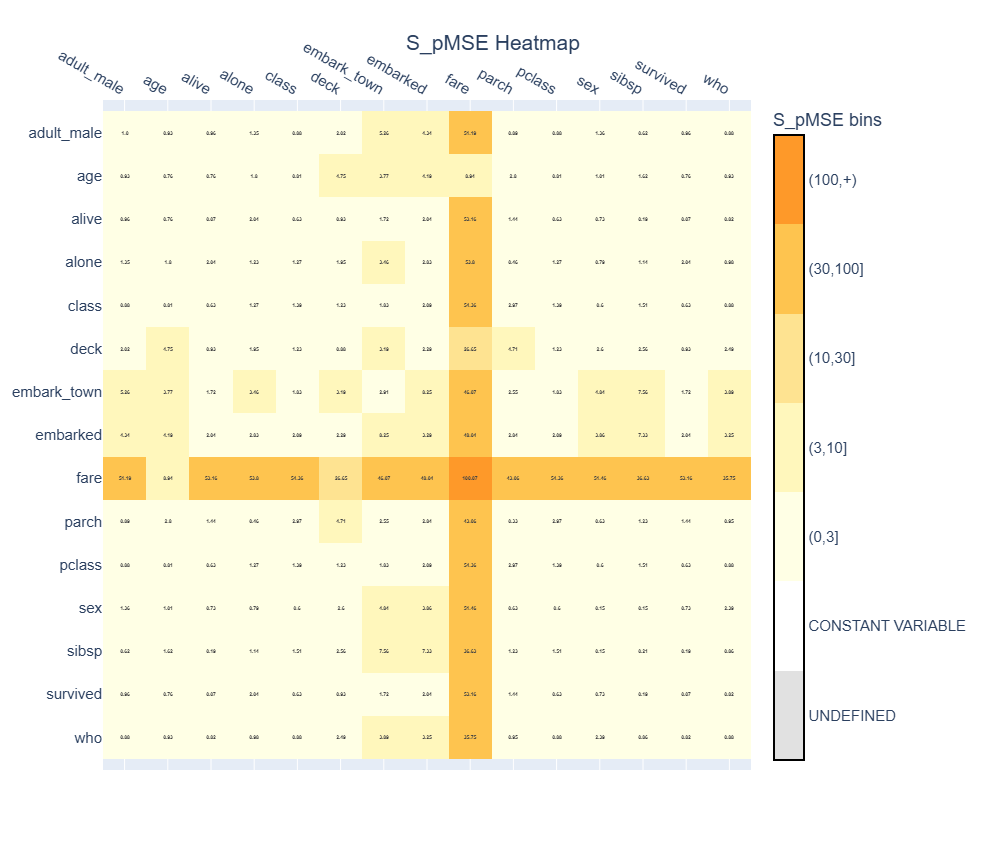
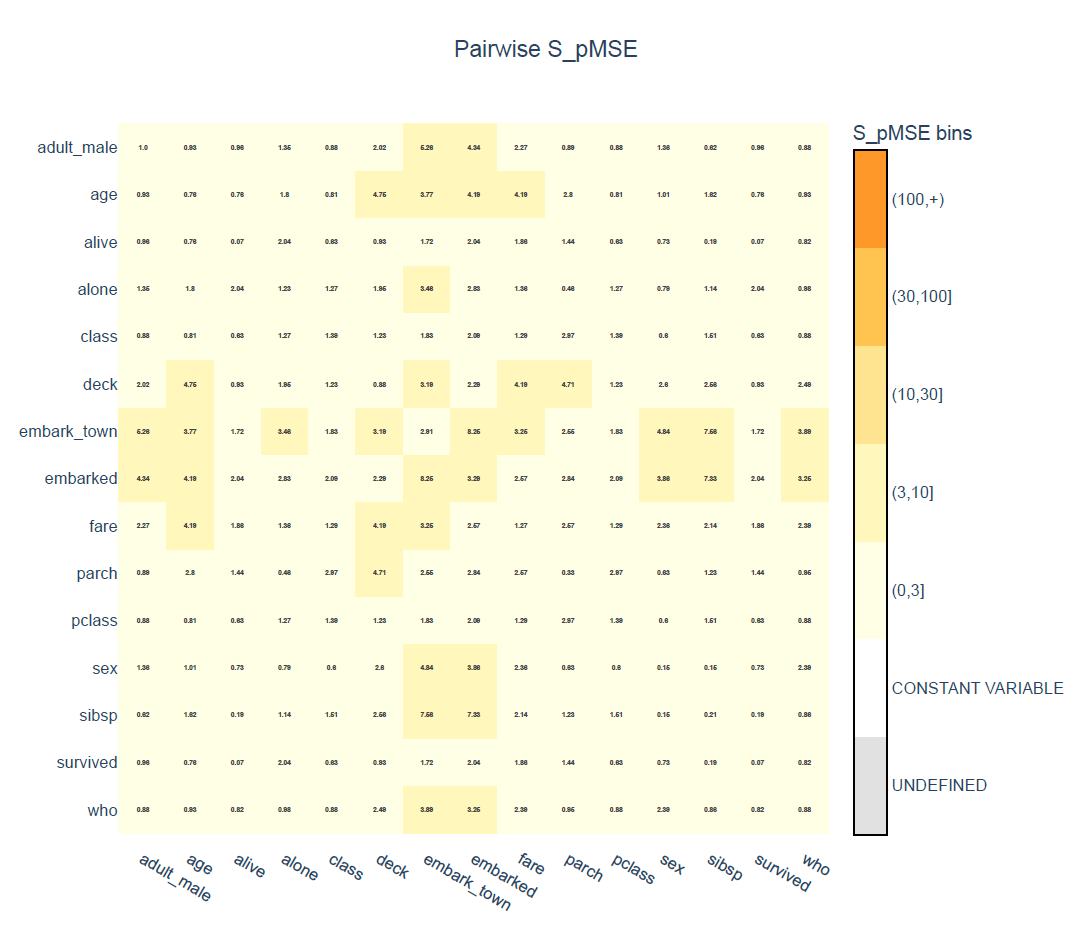
First changes to the docs

diff --git a/docs/source/examples/changing_the_synthesis_order.md b/docs/source/examples/changing_the_synthesis_order.md
@@ -8,9 +8,9 @@ When evaluating the synthetic data using the S_pMSE heatmap, you may have notice
 Reminder: the S_pMSE is influenced by the number of observations in the original and synthetic datasets. Generating more synthetic rows may result in larger S_pMSE values, even if the underlying quality of the synthesis has not changed, because small differences can be estimated more precisely. Therefore, S_pMSE values are most meaningful when comparing synthesis methods or parameter settings on datasets of the same size.
 ```
 
-Although the univariate distributions closely matched those of the original dataset, the S_pMSE heatmap tells a different story. Most relationships are preserved well, but the pairwise relationships involving `fare` have substantially larger S_pMSE values than the others. This suggests that relationships involving `fare` are not being reproduced as well as desired.
+Although the univariate distributions closely matched those of the original dataset, the S_pMSE heatmap tells a different story. Most relationships are preserved well. Where the variables embarked and embark_town show consistently the highest S_pMSE values.
 
-This does not necessarily mean that the synthesiser performed poorly. Instead, it suggests that the default synthesis settings are not optimal for this dataset.
+This does not necessarily mean that the synthesiser performed poorly. Instead, it might suggests that the default synthesis settings are not optimal for this dataset.
 
 One of the most effective ways to improve the preservation of relationships is to change the **synthesis order**.
 
@@ -96,7 +96,7 @@ More information about the sequential synthesis procedure is available in [User 
 
 ## Choose a different order
 
-Looking at the original S_pMSE heatmap, many of the largest values involve `fare`. For example, the relationships between `fare` and `survived`, `pclass`, `class`, `adult_male` and `alone` all have considerably larger S_pMSE values than most other pairs.
+Looking at the original S_pMSE heatmap, many of the largest values involve `fare`. For example, the relationships between `fare` and `age`, `deck`, `embark` all have large S_pMSE values.
 
 A simple strategy is therefore to move `fare` to the end of the synthesis order. Since variables are synthesised sequentially, moving `fare` to the end of the synthesis order allows its synthesis model to use all other variables as predictors. This additional information may help preserve relationships involving `fare`.
 
@@ -154,9 +154,9 @@ plot_new = plot_spmse(spmse_new, show_plot=True)
 ```
 
 ![S_pMSE heatmap of Titanic dataset with new column order](../images/titanic_spmse_2.png)
-The new heatmap shows that changing the synthesis order improved several relationships involving `fare`. For example, the S_pMSE value between `fare` and `survived` decreased from approximately 53 to 41, while the relationship between `fare` and `pclass` decreases from approximately 54 to 37.
+The new heatmap shows that changing the synthesis order improved several relationships involving `fare`. For example, the S_pMSE value between `fare` and `deck` decreased from approximately 6.06 to 4.47.
 
-The improvement is encouraging, but `fare` is still involved in many of the largest S_pMSE values. In addition, the updated heatmap reveals that some relationships involving `embark_town` are now less preserved.
+The improvement is encouraging, but `fare` is still involved in many of the largest S_pMSE values. In addition, the updated heatmap reveals that some relationships involving `age` are now less preserved.
 
 This illustrates an important point: changing the synthesis order is rarely a one-shot optimisation. Instead, it is often useful to make a small change, evaluate the result, and then decide on the next refinement.
 

diff --git a/docs/source/examples/generating_a_larger_dataset.md b/docs/source/examples/generating_a_larger_dataset.md
@@ -10,7 +10,7 @@ For this example, we use the [Titanic dataset](https://github.com/mwaskom/seabor
 import seaborn as sns
 
 data = sns.load_dataset("titanic")
-
+data['fare'] = data['fare'].astype(np.float32)
 data.head(3)
 ```
 The first three rows of the dataset are:
@@ -21,6 +21,10 @@ The first three rows of the dataset are:
 |  2 |          1 |        3 | female |    26 |       0 |       0 |  7.925  | S          | Third   | woman | False        | nan    | Southampton   | yes     | True    |   
 
 The dataset contains information about passengers aboard the Titanic, including demographic characteristics, ticket information, and whether each passenger survived.
+
+```{warning}
+The casting to float32 is currently required due to a bug.
+```
 
 ## Create and fit the Synthesiser
 First, we create and fit the synthesiser as in the previous examples.

diff --git a/docs/source/examples/your_first_synthetic_dataset.md b/docs/source/examples/your_first_synthetic_dataset.md
@@ -16,9 +16,10 @@ First, we load the dataset and convert it to a pandas DataFrame.
 
 ```python
 from sklearn.datasets import load_diabetes
+import numpy as np
 
 diabetes = load_diabetes(as_frame=True)
-data = diabetes.frame
+data = diabetes.frame.astype(np.float32)
 
 data.head(3)
 ```
@@ -32,6 +33,10 @@ The first three rows of the dataset are:
 | 2 |   0.0852989 |  0.0506801 |  0.0444512 | -0.00567042 |  -0.0455995 | -0.0341945 | -0.0323559 | -0.00259226 | 0.00286131 | -0.0259303 |    141 |
 
 Each row represents one observation in the original dataset. Our goal is generate a new dataset with the same structure, but containing synthetic data instead of the original data.
+
+```{warning}
+The casting to float32 is currently required due to a bug.
+```
 
 ## Create a synthesiser
 
